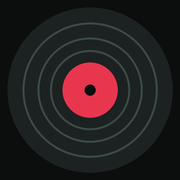
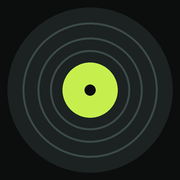
Color change

Changed region(s): [[0.3333, 0.3333, 0.6667, 0.6667]]

diff --git a/assets/css/estilos.css b/assets/css/estilos.css
@@ -36,7 +36,8 @@
   --crema: #e4ead6;
   --luz: #f3f6e6;
   --ambar: #c9a36b;
-  --rojo: #e8364f;
+  --rojo: #c6ef4e;   /* acento: verde limón (el nombre de la variable se conserva) */
+  --oliva: #7c9a1a;  /* limón oscuro para fondos claros (hojas crema) */
 
   --texto: #e9eedf;
   --texto-suave: rgba(233, 238, 223, .68);
@@ -277,7 +278,7 @@ body.portada { height: 100vh; height: 100svh; overflow: hidden; }
   content: ""; position: absolute; left: 0; right: 0; bottom: 0; height: 30%;
   background: linear-gradient(to bottom, transparent, var(--papel) 82%);
 }
-.hoja[data-tono="0"] { --papel: #ecefe0; --tinta: #1b2221; --acento: var(--rojo); }
+.hoja[data-tono="0"] { --papel: #ecefe0; --tinta: #1b2221; --acento: var(--oliva); }
 .hoja[data-tono="1"] { --papel: #b9cdc6; --tinta: #152020; --acento: #1b2221; }
 .hoja[data-tono="2"] { --papel: #2a3533; --tinta: #e4ead6; --acento: var(--ambar); }
 .hoja[data-tono="3"] { --papel: #6f8783; --tinta: #f3f6e6; --acento: #f3f6e6; }
@@ -382,7 +383,7 @@ body.en-poema .intro > * { pointer-events: none; }
 }
 .boton:hover { background: var(--luz); color: var(--negro); border-color: var(--luz); }
 .boton svg { width: 16px; height: 16px; flex: none; }
-.boton-rojo { background: var(--rojo); border-color: var(--rojo); }
+.boton-rojo { background: var(--rojo); border-color: var(--rojo); color: var(--negro); }
 .boton-rojo:hover { background: var(--luz); border-color: var(--luz); }
 
 /* ---- Portada: ficha del poema activo ---- */
@@ -577,7 +578,7 @@ main.contenido {
 }
 .poema-hoja h2.cursiva { font-style: italic; }
 .poema-hoja h2 sup { font-size: .55em; font-weight: 400; }
-.poema-hoja .hoja-barra { width: 48px; height: 2px; background: var(--rojo); margin: 0 0 2rem; }
+.poema-hoja .hoja-barra { width: 48px; height: 2px; background: var(--oliva); margin: 0 0 2rem; }
 .poema-hoja .poema { font-size: clamp(1rem, 1.9vw, 1.16rem); line-height: 1.75; }
 .nota-pie {
   margin-top: 2.6rem; padding-top: 1rem;
@@ -853,3 +854,20 @@ body.interior { padding-bottom: 86px; }
 .ficha-sonora .firma-prompt a { color: var(--crema); text-decoration: none; }
 .ficha-sonora .firma-prompt a:hover { color: var(--luz); }
 .persona h3 { margin-top: .6rem; }
+
+/* =========================================================
+   Detalles en verde limón (opción C)
+   ========================================================= */
+.video-play { background: rgba(198, 239, 78, .94); }
+.video-play svg { color: var(--negro); }
+.hoja.activa .hoja-papel {
+  box-shadow:
+    0 0 0 2px var(--rojo),
+    0 0 28px -6px rgba(198, 239, 78, .45),
+    0 50px 90px -25px rgba(0, 0, 0, .8);
+}
+.ficha-sonora, .persona { border-color: rgba(198, 239, 78, .55); }
+.encabezado.con-fondo { border-bottom-color: rgba(198, 239, 78, .7); }
+.pista-fija { border-top-color: rgba(198, 239, 78, .6); }
+.menu .idioma a { border-color: var(--rojo); }
+.menu .idioma a:hover { background: var(--rojo); color: var(--negro); }

diff --git a/index.html b/index.html
@@ -30,7 +30,7 @@
 <body class="portada">
 <a class="sr-only" href="poemas/">Ir a la lista de poemas</a>
 <header class="encabezado">
-  <a class="logo" href="" data-ir-inicio aria-label="Bolero Techno"><svg class="logo-disco" viewBox="0 0 64 64" aria-hidden="true"><circle cx="32" cy="32" r="31" fill="#1b2221"/><circle cx="32" cy="32" r="26" fill="none" stroke="#3b4a48" stroke-width="1"/><circle cx="32" cy="32" r="21" fill="none" stroke="#3b4a48" stroke-width="1"/><circle cx="32" cy="32" r="16" fill="none" stroke="#3b4a48" stroke-width="1"/><path d="M10 22a24 24 0 0 1 14-12" stroke="#9cb4ad" stroke-width="2" fill="none" stroke-linecap="round" opacity=".7"/><circle cx="32" cy="32" r="9" fill="#e8364f"/><circle cx="32" cy="32" r="1.8" fill="#0c0e0e"/></svg><span>Bolero Techno</span></a>
+  <a class="logo" href="" data-ir-inicio aria-label="Bolero Techno"><svg class="logo-disco" viewBox="0 0 64 64" aria-hidden="true"><circle cx="32" cy="32" r="31" fill="#1b2221"/><circle cx="32" cy="32" r="26" fill="none" stroke="#3b4a48" stroke-width="1"/><circle cx="32" cy="32" r="21" fill="none" stroke="#3b4a48" stroke-width="1"/><circle cx="32" cy="32" r="16" fill="none" stroke="#3b4a48" stroke-width="1"/><path d="M10 22a24 24 0 0 1 14-12" stroke="#9cb4ad" stroke-width="2" fill="none" stroke-linecap="round" opacity=".7"/><circle cx="32" cy="32" r="9" fill="#c6ef4e"/><circle cx="32" cy="32" r="1.8" fill="#0c0e0e"/></svg><span>Bolero Techno</span></a>
   <button class="menu-boton" aria-label="Abrir menú" aria-expanded="false" aria-controls="menu"><span></span><span></span><span></span></button>
   <nav aria-label="Principal">
     <ul class="menu" id="menu">

diff --git a/poemas/9mm/index.html b/poemas/9mm/index.html
@@ -29,7 +29,7 @@
 </head>
 <body class="interior">
 <header class="encabezado">
-  <a class="logo" href="../../" aria-label="Bolero Techno"><svg class="logo-disco" viewBox="0 0 64 64" aria-hidden="true"><circle cx="32" cy="32" r="31" fill="#1b2221"/><circle cx="32" cy="32" r="26" fill="none" stroke="#3b4a48" stroke-width="1"/><circle cx="32" cy="32" r="21" fill="none" stroke="#3b4a48" stroke-width="1"/><circle cx="32" cy="32" r="16" fill="none" stroke="#3b4a48" stroke-width="1"/><path d="M10 22a24 24 0 0 1 14-12" stroke="#9cb4ad" stroke-width="2" fill="none" stroke-linecap="round" opacity=".7"/><circle cx="32" cy="32" r="9" fill="#e8364f"/><circle cx="32" cy="32" r="1.8" fill="#0c0e0e"/></svg><span>Bolero Techno</span></a>
+  <a class="logo" href="../../" aria-label="Bolero Techno"><svg class="logo-disco" viewBox="0 0 64 64" aria-hidden="true"><circle cx="32" cy="32" r="31" fill="#1b2221"/><circle cx="32" cy="32" r="26" fill="none" stroke="#3b4a48" stroke-width="1"/><circle cx="32" cy="32" r="21" fill="none" stroke="#3b4a48" stroke-width="1"/><circle cx="32" cy="32" r="16" fill="none" stroke="#3b4a48" stroke-width="1"/><path d="M10 22a24 24 0 0 1 14-12" stroke="#9cb4ad" stroke-width="2" fill="none" stroke-linecap="round" opacity=".7"/><circle cx="32" cy="32" r="9" fill="#c6ef4e"/><circle cx="32" cy="32" r="1.8" fill="#0c0e0e"/></svg><span>Bolero Techno</span></a>
   <button class="menu-boton" aria-label="Abrir menú" aria-expanded="false" aria-controls="menu"><span></span><span></span><span></span></button>
   <nav aria-label="Principal">
     <ul class="menu" id="menu">

diff --git a/poemas/alta-traicion-neoliberal/index.html b/poemas/alta-traicion-neoliberal/index.html
@@ -29,7 +29,7 @@
 </head>
 <body class="interior">
 <header class="encabezado">
-  <a class="logo" href="../../" aria-label="Bolero Techno"><svg class="logo-disco" viewBox="0 0 64 64" aria-hidden="true"><circle cx="32" cy="32" r="31" fill="#1b2221"/><circle cx="32" cy="32" r="26" fill="none" stroke="#3b4a48" stroke-width="1"/><circle cx="32" cy="32" r="21" fill="none" stroke="#3b4a48" stroke-width="1"/><circle cx="32" cy="32" r="16" fill="none" stroke="#3b4a48" stroke-width="1"/><path d="M10 22a24 24 0 0 1 14-12" stroke="#9cb4ad" stroke-width="2" fill="none" stroke-linecap="round" opacity=".7"/><circle cx="32" cy="32" r="9" fill="#e8364f"/><circle cx="32" cy="32" r="1.8" fill="#0c0e0e"/></svg><span>Bolero Techno</span></a>
+  <a class="logo" href="../../" aria-label="Bolero Techno"><svg class="logo-disco" viewBox="0 0 64 64" aria-hidden="true"><circle cx="32" cy="32" r="31" fill="#1b2221"/><circle cx="32" cy="32" r="26" fill="none" stroke="#3b4a48" stroke-width="1"/><circle cx="32" cy="32" r="21" fill="none" stroke="#3b4a48" stroke-width="1"/><circle cx="32" cy="32" r="16" fill="none" stroke="#3b4a48" stroke-width="1"/><path d="M10 22a24 24 0 0 1 14-12" stroke="#9cb4ad" stroke-width="2" fill="none" stroke-linecap="round" opacity=".7"/><circle cx="32" cy="32" r="9" fill="#c6ef4e"/><circle cx="32" cy="32" r="1.8" fill="#0c0e0e"/></svg><span>Bolero Techno</span></a>
   <button class="menu-boton" aria-label="Abrir menú" aria-expanded="false" aria-controls="menu"><span></span><span></span><span></span></button>
   <nav aria-label="Principal">
     <ul class="menu" id="menu">

diff --git a/poemas/arritmia/index.html b/poemas/arritmia/index.html
@@ -29,7 +29,7 @@
 </head>
 <body class="interior">
 <header class="encabezado">
-  <a class="logo" href="../../" aria-label="Bolero Techno"><svg class="logo-disco" viewBox="0 0 64 64" aria-hidden="true"><circle cx="32" cy="32" r="31" fill="#1b2221"/><circle cx="32" cy="32" r="26" fill="none" stroke="#3b4a48" stroke-width="1"/><circle cx="32" cy="32" r="21" fill="none" stroke="#3b4a48" stroke-width="1"/><circle cx="32" cy="32" r="16" fill="none" stroke="#3b4a48" stroke-width="1"/><path d="M10 22a24 24 0 0 1 14-12" stroke="#9cb4ad" stroke-width="2" fill="none" stroke-linecap="round" opacity=".7"/><circle cx="32" cy="32" r="9" fill="#e8364f"/><circle cx="32" cy="32" r="1.8" fill="#0c0e0e"/></svg><span>Bolero Techno</span></a>
+  <a class="logo" href="../../" aria-label="Bolero Techno"><svg class="logo-disco" viewBox="0 0 64 64" aria-hidden="true"><circle cx="32" cy="32" r="31" fill="#1b2221"/><circle cx="32" cy="32" r="26" fill="none" stroke="#3b4a48" stroke-width="1"/><circle cx="32" cy="32" r="21" fill="none" stroke="#3b4a48" stroke-width="1"/><circle cx="32" cy="32" r="16" fill="none" stroke="#3b4a48" stroke-width="1"/><path d="M10 22a24 24 0 0 1 14-12" stroke="#9cb4ad" stroke-width="2" fill="none" stroke-linecap="round" opacity=".7"/><circle cx="32" cy="32" r="9" fill="#c6ef4e"/><circle cx="32" cy="32" r="1.8" fill="#0c0e0e"/></svg><span>Bolero Techno</span></a>
   <button class="menu-boton" aria-label="Abrir menú" aria-expanded="false" aria-controls="menu"><span></span><span></span><span></span></button>
   <nav aria-label="Principal">
     <ul class="menu" id="menu">

diff --git a/poemas/arte-poetica/index.html b/poemas/arte-poetica/index.html
@@ -29,7 +29,7 @@
 </head>
 <body class="interior">
 <header class="encabezado">
-  <a class="logo" href="../../" aria-label="Bolero Techno"><svg class="logo-disco" viewBox="0 0 64 64" aria-hidden="true"><circle cx="32" cy="32" r="31" fill="#1b2221"/><circle cx="32" cy="32" r="26" fill="none" stroke="#3b4a48" stroke-width="1"/><circle cx="32" cy="32" r="21" fill="none" stroke="#3b4a48" stroke-width="1"/><circle cx="32" cy="32" r="16" fill="none" stroke="#3b4a48" stroke-width="1"/><path d="M10 22a24 24 0 0 1 14-12" stroke="#9cb4ad" stroke-width="2" fill="none" stroke-linecap="round" opacity=".7"/><circle cx="32" cy="32" r="9" fill="#e8364f"/><circle cx="32" cy="32" r="1.8" fill="#0c0e0e"/></svg><span>Bolero Techno</span></a>
+  <a class="logo" href="../../" aria-label="Bolero Techno"><svg class="logo-disco" viewBox="0 0 64 64" aria-hidden="true"><circle cx="32" cy="32" r="31" fill="#1b2221"/><circle cx="32" cy="32" r="26" fill="none" stroke="#3b4a48" stroke-width="1"/><circle cx="32" cy="32" r="21" fill="none" stroke="#3b4a48" stroke-width="1"/><circle cx="32" cy="32" r="16" fill="none" stroke="#3b4a48" stroke-width="1"/><path d="M10 22a24 24 0 0 1 14-12" stroke="#9cb4ad" stroke-width="2" fill="none" stroke-linecap="round" opacity=".7"/><circle cx="32" cy="32" r="9" fill="#c6ef4e"/><circle cx="32" cy="32" r="1.8" fill="#0c0e0e"/></svg><span>Bolero Techno</span></a>
   <button class="menu-boton" aria-label="Abrir menú" aria-expanded="false" aria-controls="menu"><span></span><span></span><span></span></button>
   <nav aria-label="Principal">
     <ul class="menu" id="menu">

diff --git a/poemas/bacanal/index.html b/poemas/bacanal/index.html
@@ -29,7 +29,7 @@
 </head>
 <body class="interior">
 <header class="encabezado">
-  <a class="logo" href="../../" aria-label="Bolero Techno"><svg class="logo-disco" viewBox="0 0 64 64" aria-hidden="true"><circle cx="32" cy="32" r="31" fill="#1b2221"/><circle cx="32" cy="32" r="26" fill="none" stroke="#3b4a48" stroke-width="1"/><circle cx="32" cy="32" r="21" fill="none" stroke="#3b4a48" stroke-width="1"/><circle cx="32" cy="32" r="16" fill="none" stroke="#3b4a48" stroke-width="1"/><path d="M10 22a24 24 0 0 1 14-12" stroke="#9cb4ad" stroke-width="2" fill="none" stroke-linecap="round" opacity=".7"/><circle cx="32" cy="32" r="9" fill="#e8364f"/><circle cx="32" cy="32" r="1.8" fill="#0c0e0e"/></svg><span>Bolero Techno</span></a>
+  <a class="logo" href="../../" aria-label="Bolero Techno"><svg class="logo-disco" viewBox="0 0 64 64" aria-hidden="true"><circle cx="32" cy="32" r="31" fill="#1b2221"/><circle cx="32" cy="32" r="26" fill="none" stroke="#3b4a48" stroke-width="1"/><circle cx="32" cy="32" r="21" fill="none" stroke="#3b4a48" stroke-width="1"/><circle cx="32" cy="32" r="16" fill="none" stroke="#3b4a48" stroke-width="1"/><path d="M10 22a24 24 0 0 1 14-12" stroke="#9cb4ad" stroke-width="2" fill="none" stroke-linecap="round" opacity=".7"/><circle cx="32" cy="32" r="9" fill="#c6ef4e"/><circle cx="32" cy="32" r="1.8" fill="#0c0e0e"/></svg><span>Bolero Techno</span></a>
   <button class="menu-boton" aria-label="Abrir menú" aria-expanded="false" aria-controls="menu"><span></span><span></span><span></span></button>
   <nav aria-label="Principal">
     <ul class="menu" id="menu">

diff --git a/poemas/balada-de-otto-lilienthal/index.html b/poemas/balada-de-otto-lilienthal/index.html
@@ -29,7 +29,7 @@
 </head>
 <body class="interior">
 <header class="encabezado">
-  <a class="logo" href="../../" aria-label="Bolero Techno"><svg class="logo-disco" viewBox="0 0 64 64" aria-hidden="true"><circle cx="32" cy="32" r="31" fill="#1b2221"/><circle cx="32" cy="32" r="26" fill="none" stroke="#3b4a48" stroke-width="1"/><circle cx="32" cy="32" r="21" fill="none" stroke="#3b4a48" stroke-width="1"/><circle cx="32" cy="32" r="16" fill="none" stroke="#3b4a48" stroke-width="1"/><path d="M10 22a24 24 0 0 1 14-12" stroke="#9cb4ad" stroke-width="2" fill="none" stroke-linecap="round" opacity=".7"/><circle cx="32" cy="32" r="9" fill="#e8364f"/><circle cx="32" cy="32" r="1.8" fill="#0c0e0e"/></svg><span>Bolero Techno</span></a>
+  <a class="logo" href="../../" aria-label="Bolero Techno"><svg class="logo-disco" viewBox="0 0 64 64" aria-hidden="true"><circle cx="32" cy="32" r="31" fill="#1b2221"/><circle cx="32" cy="32" r="26" fill="none" stroke="#3b4a48" stroke-width="1"/><circle cx="32" cy="32" r="21" fill="none" stroke="#3b4a48" stroke-width="1"/><circle cx="32" cy="32" r="16" fill="none" stroke="#3b4a48" stroke-width="1"/><path d="M10 22a24 24 0 0 1 14-12" stroke="#9cb4ad" stroke-width="2" fill="none" stroke-linecap="round" opacity=".7"/><circle cx="32" cy="32" r="9" fill="#c6ef4e"/><circle cx="32" cy="32" r="1.8" fill="#0c0e0e"/></svg><span>Bolero Techno</span></a>
   <button class="menu-boton" aria-label="Abrir menú" aria-expanded="false" aria-controls="menu"><span></span><span></span><span></span></button>
   <nav aria-label="Principal">
     <ul class="menu" id="menu">

diff --git a/poemas/balada-de-peter-pan-el-deseoso/index.html b/poemas/balada-de-peter-pan-el-deseoso/index.html
@@ -29,7 +29,7 @@
 </head>
 <body class="interior">
 <header class="encabezado">
-  <a class="logo" href="../../" aria-label="Bolero Techno"><svg class="logo-disco" viewBox="0 0 64 64" aria-hidden="true"><circle cx="32" cy="32" r="31" fill="#1b2221"/><circle cx="32" cy="32" r="26" fill="none" stroke="#3b4a48" stroke-width="1"/><circle cx="32" cy="32" r="21" fill="none" stroke="#3b4a48" stroke-width="1"/><circle cx="32" cy="32" r="16" fill="none" stroke="#3b4a48" stroke-width="1"/><path d="M10 22a24 24 0 0 1 14-12" stroke="#9cb4ad" stroke-width="2" fill="none" stroke-linecap="round" opacity=".7"/><circle cx="32" cy="32" r="9" fill="#e8364f"/><circle cx="32" cy="32" r="1.8" fill="#0c0e0e"/></svg><span>Bolero Techno</span></a>
+  <a class="logo" href="../../" aria-label="Bolero Techno"><svg class="logo-disco" viewBox="0 0 64 64" aria-hidden="true"><circle cx="32" cy="32" r="31" fill="#1b2221"/><circle cx="32" cy="32" r="26" fill="none" stroke="#3b4a48" stroke-width="1"/><circle cx="32" cy="32" r="21" fill="none" stroke="#3b4a48" stroke-width="1"/><circle cx="32" cy="32" r="16" fill="none" stroke="#3b4a48" stroke-width="1"/><path d="M10 22a24 24 0 0 1 14-12" stroke="#9cb4ad" stroke-width="2" fill="none" stroke-linecap="round" opacity=".7"/><circle cx="32" cy="32" r="9" fill="#c6ef4e"/><circle cx="32" cy="32" r="1.8" fill="#0c0e0e"/></svg><span>Bolero Techno</span></a>
   <button class="menu-boton" aria-label="Abrir menú" aria-expanded="false" aria-controls="menu"><span></span><span></span><span></span></button>
   <nav aria-label="Principal">
     <ul class="menu" id="menu">

diff --git a/poemas/barda/index.html b/poemas/barda/index.html
@@ -29,7 +29,7 @@
 </head>
 <body class="interior">
 <header class="encabezado">
-  <a class="logo" href="../../" aria-label="Bolero Techno"><svg class="logo-disco" viewBox="0 0 64 64" aria-hidden="true"><circle cx="32" cy="32" r="31" fill="#1b2221"/><circle cx="32" cy="32" r="26" fill="none" stroke="#3b4a48" stroke-width="1"/><circle cx="32" cy="32" r="21" fill="none" stroke="#3b4a48" stroke-width="1"/><circle cx="32" cy="32" r="16" fill="none" stroke="#3b4a48" stroke-width="1"/><path d="M10 22a24 24 0 0 1 14-12" stroke="#9cb4ad" stroke-width="2" fill="none" stroke-linecap="round" opacity=".7"/><circle cx="32" cy="32" r="9" fill="#e8364f"/><circle cx="32" cy="32" r="1.8" fill="#0c0e0e"/></svg><span>Bolero Techno</span></a>
+  <a class="logo" href="../../" aria-label="Bolero Techno"><svg class="logo-disco" viewBox="0 0 64 64" aria-hidden="true"><circle cx="32" cy="32" r="31" fill="#1b2221"/><circle cx="32" cy="32" r="26" fill="none" stroke="#3b4a48" stroke-width="1"/><circle cx="32" cy="32" r="21" fill="none" stroke="#3b4a48" stroke-width="1"/><circle cx="32" cy="32" r="16" fill="none" stroke="#3b4a48" stroke-width="1"/><path d="M10 22a24 24 0 0 1 14-12" stroke="#9cb4ad" stroke-width="2" fill="none" stroke-linecap="round" opacity=".7"/><circle cx="32" cy="32" r="9" fill="#c6ef4e"/><circle cx="32" cy="32" r="1.8" fill="#0c0e0e"/></svg><span>Bolero Techno</span></a>
   <button class="menu-boton" aria-label="Abrir menú" aria-expanded="false" aria-controls="menu"><span></span><span></span><span></span></button>
   <nav aria-label="Principal">
     <ul class="menu" id="menu">

diff --git a/poemas/bolero-techno/index.html b/poemas/bolero-techno/index.html
@@ -29,7 +29,7 @@
 </head>
 <body class="interior">
 <header class="encabezado">
-  <a class="logo" href="../../" aria-label="Bolero Techno"><svg class="logo-disco" viewBox="0 0 64 64" aria-hidden="true"><circle cx="32" cy="32" r="31" fill="#1b2221"/><circle cx="32" cy="32" r="26" fill="none" stroke="#3b4a48" stroke-width="1"/><circle cx="32" cy="32" r="21" fill="none" stroke="#3b4a48" stroke-width="1"/><circle cx="32" cy="32" r="16" fill="none" stroke="#3b4a48" stroke-width="1"/><path d="M10 22a24 24 0 0 1 14-12" stroke="#9cb4ad" stroke-width="2" fill="none" stroke-linecap="round" opacity=".7"/><circle cx="32" cy="32" r="9" fill="#e8364f"/><circle cx="32" cy="32" r="1.8" fill="#0c0e0e"/></svg><span>Bolero Techno</span></a>
+  <a class="logo" href="../../" aria-label="Bolero Techno"><svg class="logo-disco" viewBox="0 0 64 64" aria-hidden="true"><circle cx="32" cy="32" r="31" fill="#1b2221"/><circle cx="32" cy="32" r="26" fill="none" stroke="#3b4a48" stroke-width="1"/><circle cx="32" cy="32" r="21" fill="none" stroke="#3b4a48" stroke-width="1"/><circle cx="32" cy="32" r="16" fill="none" stroke="#3b4a48" stroke-width="1"/><path d="M10 22a24 24 0 0 1 14-12" stroke="#9cb4ad" stroke-width="2" fill="none" stroke-linecap="round" opacity=".7"/><circle cx="32" cy="32" r="9" fill="#c6ef4e"/><circle cx="32" cy="32" r="1.8" fill="#0c0e0e"/></svg><span>Bolero Techno</span></a>
   <button class="menu-boton" aria-label="Abrir menú" aria-expanded="false" aria-controls="menu"><span></span><span></span><span></span></button>
   <nav aria-label="Principal">
     <ul class="menu" id="menu">

diff --git a/poemas/cancion-vernal/index.html b/poemas/cancion-vernal/index.html
@@ -29,7 +29,7 @@
 </head>
 <body class="interior">
 <header class="encabezado">
-  <a class="logo" href="../../" aria-label="Bolero Techno"><svg class="logo-disco" viewBox="0 0 64 64" aria-hidden="true"><circle cx="32" cy="32" r="31" fill="#1b2221"/><circle cx="32" cy="32" r="26" fill="none" stroke="#3b4a48" stroke-width="1"/><circle cx="32" cy="32" r="21" fill="none" stroke="#3b4a48" stroke-width="1"/><circle cx="32" cy="32" r="16" fill="none" stroke="#3b4a48" stroke-width="1"/><path d="M10 22a24 24 0 0 1 14-12" stroke="#9cb4ad" stroke-width="2" fill="none" stroke-linecap="round" opacity=".7"/><circle cx="32" cy="32" r="9" fill="#e8364f"/><circle cx="32" cy="32" r="1.8" fill="#0c0e0e"/></svg><span>Bolero Techno</span></a>
+  <a class="logo" href="../../" aria-label="Bolero Techno"><svg class="logo-disco" viewBox="0 0 64 64" aria-hidden="true"><circle cx="32" cy="32" r="31" fill="#1b2221"/><circle cx="32" cy="32" r="26" fill="none" stroke="#3b4a48" stroke-width="1"/><circle cx="32" cy="32" r="21" fill="none" stroke="#3b4a48" stroke-width="1"/><circle cx="32" cy="32" r="16" fill="none" stroke="#3b4a48" stroke-width="1"/><path d="M10 22a24 24 0 0 1 14-12" stroke="#9cb4ad" stroke-width="2" fill="none" stroke-linecap="round" opacity=".7"/><circle cx="32" cy="32" r="9" fill="#c6ef4e"/><circle cx="32" cy="32" r="1.8" fill="#0c0e0e"/></svg><span>Bolero Techno</span></a>
   <button class="menu-boton" aria-label="Abrir menú" aria-expanded="false" aria-controls="menu"><span></span><span></span><span></span></button>
   <nav aria-label="Principal">
     <ul class="menu" id="menu">
